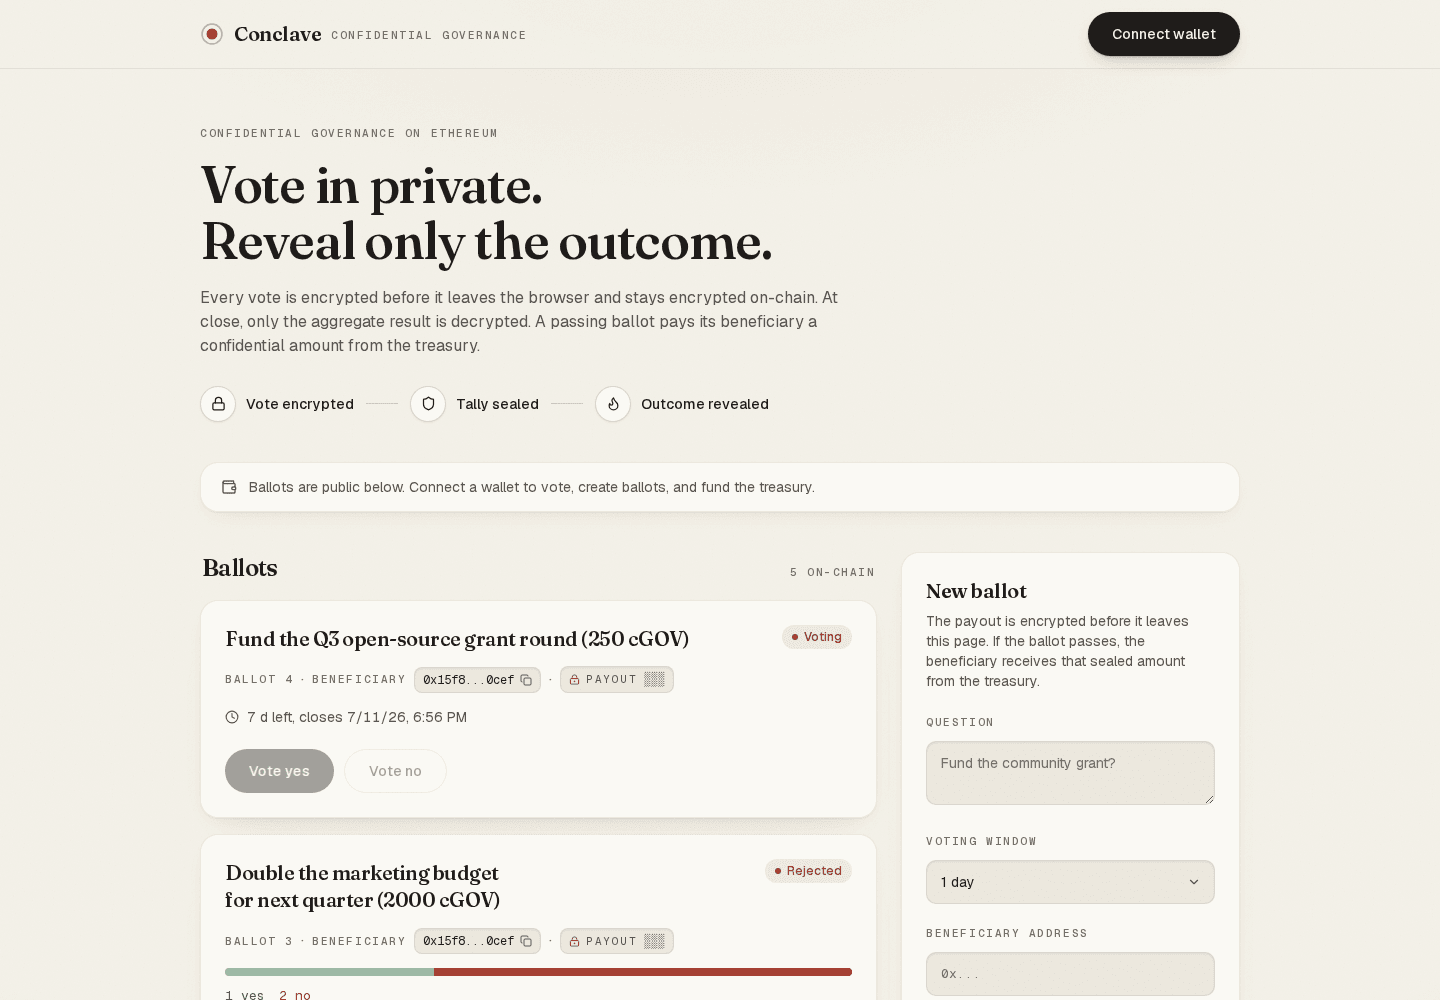
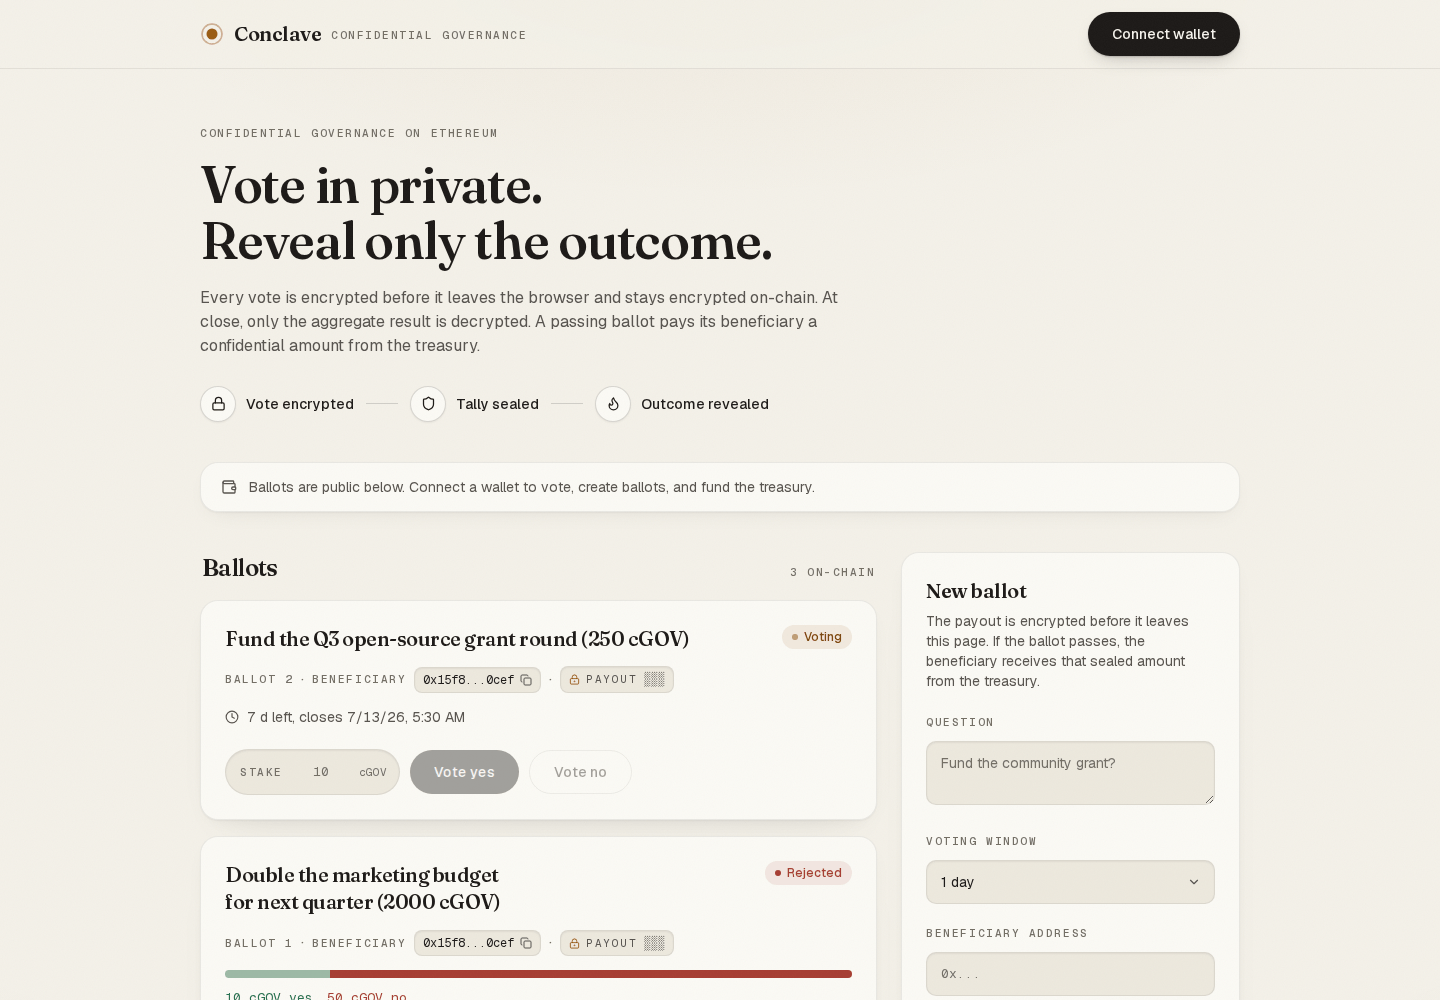
chore: harden staging and refresh README + screenshots for redeployed contracts

Changed region(s): [[0.1562, 0.868, 0.5938, 1.0], [0.1562, 0.713, 0.375, 0.806], [0.5312, 0.868, 0.5938, 0.899]]

diff --git a/contracts/scripts/stage-demo.ts b/contracts/scripts/stage-demo.ts
@@ -34,8 +34,9 @@ const BALLOT_STATE = { Active: 0n, Revealing: 1n, Resolved: 2n } as const;
 const FINISHED_BALLOT_DURATION_SECONDS = 420n;
 // 7 days keeps the live-demo ballot open through judging.
 const OPEN_BALLOT_DURATION_SECONDS = 7n * 24n * 3600n;
-// Gas money sent to voter accounts 1 and 2 (they only ever cast votes).
-const VOTER_TOP_UP_ETHER = "0.01";
+// Gas money the deployer sends to voter accounts 1 and 2. Each casts two
+// FHE-heavy votes on Sepolia, so 0.02 ETH leaves a margin over the ~0.01 pair.
+const VOTER_TOP_UP_ETHER = "0.02";
 // Operator authorization expiry, far in the future (a uint48 timestamp).
 const OPERATOR_UNTIL = 4102444800n; // 2100-01-01
 // Treasury funding per stage run, in whole cGOV (scaled by decimals below).
@@ -45,12 +46,34 @@ function logStep(message: string): void {
   console.log(`[stage-demo] ${message}`);
 }
 
+// Retries a relayer round-trip a few times on transient network failures. The
+// Zama testnet relayer occasionally closes the socket mid-request, which aborts
+// an otherwise valid input-proof or public-decrypt call. Backs off between tries.
+async function withRelayerRetry<T>(label: string, action: () => Promise<T>): Promise<T> {
+  const maxAttempts = 6;
+  let lastError: unknown;
+  for (let attempt = 1; attempt <= maxAttempts; attempt++) {
+    try {
+      return await action();
+    } catch (error) {
+      lastError = error;
+      if (attempt < maxAttempts) {
+        logStep(`${label}: relayer attempt ${attempt}/${maxAttempts} failed, retrying in ${attempt * 3}s`);
+        await new Promise((resolve) => setTimeout(resolve, attempt * 3000));
+      }
+    }
+  }
+  throw lastError;
+}
+
 async function encryptAmountForContract(
   contractAddress: string,
   sender: HardhatEthersSigner,
   amount: bigint,
 ): Promise<{ handle: Uint8Array; inputProof: Uint8Array }> {
-  const encrypted = await fhevm.createEncryptedInput(contractAddress, sender.address).add64(amount).encrypt();
+  const encrypted = await withRelayerRetry("encrypt amount", () =>
+    fhevm.createEncryptedInput(contractAddress, sender.address).add64(amount).encrypt(),
+  );
   return { handle: encrypted.handles[0], inputProof: encrypted.inputProof };
 }
 
@@ -86,11 +109,9 @@ async function castWeightedVote(
   support: boolean,
   weight: bigint,
 ): Promise<void> {
-  const encrypted = await fhevm
-    .createEncryptedInput(BALLOT_ADDRESS, voter.address)
-    .addBool(support)
-    .add64(weight)
-    .encrypt();
+  const encrypted = await withRelayerRetry(`encrypt vote on ballot ${ballotId}`, () =>
+    fhevm.createEncryptedInput(BALLOT_ADDRESS, voter.address).addBool(support).add64(weight).encrypt(),
+  );
   const tx = await ballot
     .connect(voter)
     .vote(ballotId, encrypted.handles[0], encrypted.handles[1], encrypted.inputProof);
@@ -141,7 +162,9 @@ async function sweepExpiredBallots(ballot: ConfidentialBallot, caller: HardhatEt
 
     if (state === BALLOT_STATE.Revealing) {
       const [encryptedYes, encryptedNo] = await ballot.getEncryptedTallies(ballotId);
-      const decrypted = await fhevm.publicDecrypt([encryptedYes, encryptedNo]);
+      const decrypted = await withRelayerRetry(`decrypt tallies of ballot ${ballotId}`, () =>
+        fhevm.publicDecrypt([encryptedYes, encryptedNo]),
+      );
       const resolveTx = await ballot
         .connect(caller)
         .resolve(ballotId, decrypted.abiEncodedClearValues, decrypted.decryptionProof);
@@ -210,24 +233,36 @@ async function runStagePhase(
     payoutAmount: inWhole(2000n),
   });
 
-  // 7. Stake-weighted votes in three parallel lanes (one per signer, so nonces
-  //    never collide): grants ends 50 yes / 10 no (passes), marketing ends
-  //    10 yes / 50 no (rejected). Weights are in whole cGOV.
+  // 7. Stake-weighted votes, cast one at a time so the relayer only ever handles
+  //    a single input-proof request at once (concurrent requests occasionally
+  //    get the socket closed mid-flight). Each signer still keeps its own nonce
+  //    lane. Grants ends 50 yes / 10 no (passes), marketing ends 10 yes / 50 no
+  //    (rejected). Weights are in whole cGOV.
   const voteLanes: {
     voter: HardhatEthersSigner;
     grants: { support: boolean; weight: bigint };
     marketing: { support: boolean; weight: bigint };
   }[] = [
-    { voter: deployer, grants: { support: true, weight: inWhole(30n) }, marketing: { support: false, weight: inWhole(30n) } },
-    { voter: voterOne, grants: { support: true, weight: inWhole(20n) }, marketing: { support: true, weight: inWhole(10n) } },
-    { voter: voterTwo, grants: { support: false, weight: inWhole(10n) }, marketing: { support: false, weight: inWhole(20n) } },
+    {
+      voter: deployer,
+      grants: { support: true, weight: inWhole(30n) },
+      marketing: { support: false, weight: inWhole(30n) },
+    },
+    {
+      voter: voterOne,
+      grants: { support: true, weight: inWhole(20n) },
+      marketing: { support: true, weight: inWhole(10n) },
+    },
+    {
+      voter: voterTwo,
+      grants: { support: false, weight: inWhole(10n) },
+      marketing: { support: false, weight: inWhole(20n) },
+    },
   ];
-  await Promise.all(
-    voteLanes.map(async (lane) => {
-      await castWeightedVote(ballot, lane.voter, grantsBallotId, lane.grants.support, lane.grants.weight);
-      await castWeightedVote(ballot, lane.voter, marketingBallotId, lane.marketing.support, lane.marketing.weight);
-    }),
-  );
+  for (const lane of voteLanes) {
+    await castWeightedVote(ballot, lane.voter, grantsBallotId, lane.grants.support, lane.grants.weight);
+    await castWeightedVote(ballot, lane.voter, marketingBallotId, lane.marketing.support, lane.marketing.weight);
+  }
 
   // 8. The ballot that stays open for the live demo (created last so it sits on
   //    top of the newest-first list in the app).

diff --git a/README.md b/README.md
@@ -20,7 +20,7 @@ its beneficiary an amount that stays encrypted from the vote to the balance.
   <img src="https://img.shields.io/badge/network-Ethereum%20Sepolia-57534e" alt="network: Ethereum Sepolia">
   <img src="https://img.shields.io/badge/contracts-verified-25704f" alt="contracts: verified on Etherscan">
   <img src="https://img.shields.io/badge/token-ERC--7984-7a470e" alt="token: ERC-7984">
-  <img src="https://img.shields.io/badge/tests-12%20passing-25704f" alt="tests: 12 passing">
+  <img src="https://img.shields.io/badge/tests-20%20passing-25704f" alt="tests: 20 passing">
   <img src="https://img.shields.io/badge/license-BSD--3--Clause--Clear-736e64" alt="license: BSD-3-Clause-Clear">
 </p>
 
@@ -57,9 +57,11 @@ contract adds them up without ever seeing them.
   tallies publicly decryptable. The app calls the relayer `publicDecrypt`, then
   `resolve` posts the KMS-signed cleartexts back and the contract re-checks them
   with `FHE.checkSignatures`. Individual votes never decrypt.
-- **Confidential treasury payout.** Each ballot carries a beneficiary and an
-  encrypted `euint64` payout. On a pass, `execute` moves it with ERC-7984
-  `confidentialTransfer`, so the amount stays encrypted from vote to payment.
+- **Confidential treasury payout, capped.** The treasury is funded separately
+  with `fundTreasury` and tracked apart from voter stakes. On a pass, `execute`
+  pays the beneficiary with ERC-7984 `confidentialTransfer`, but first caps the
+  amount at the treasury balance with `FHE.le` and `FHE.select`, so a ballot can
+  never spend the stakes voters locked. The payout stays encrypted end to end.
 - **Simulate-first actions.** Every write simulates before the wallet opens, so
   reverts such as `AlreadyVoted` or `VotingPeriodOver` arrive as readable
   messages instead of failed transactions.
@@ -69,14 +71,15 @@ contract adds them up without ever seeing them.
 ```mermaid
 flowchart TD
     subgraph browser["In the browser"]
-        voter["Voter"] -->|"encrypt choice + proof"| voteTx["vote(ballotId, ebool, proof)"]
+        voter["Voter"] -->|"encrypt choice + weight + proof"| voteTx["vote(id, ebool, euint64, proof)"]
         app["App"]
     end
     subgraph chain["Ethereum Sepolia"]
         voteTx --> ballot["ConfidentialBallot"]
-        ballot -->|"FHE.select + FHE.add"| tallies["two euint64 tallies (sealed)"]
+        ballot -->|"confidentialTransferFrom pulls the encrypted stake"| token["ConfidentialGovToken"]
+        ballot -->|"FHE.select + FHE.add the weight"| tallies["two euint64 tallies (sealed)"]
         resolve["resolve(cleartexts, proof)"] -->|"FHE.checkSignatures"| ballot
-        ballot -->|"on pass: confidentialTransfer"| token["ConfidentialGovToken"]
+        ballot -->|"on pass: execute, capped at the treasury"| token
         token --> beneficiary["Beneficiary balance (encrypted)"]
     end
     subgraph zama["Zama coprocessor and KMS"]
@@ -87,20 +90,23 @@ flowchart TD
 ```
 
 The diagram shows the happy path. The guards carry the rest. A vote outside the
-window reverts with `VotingPeriodOver`, a repeat vote with `AlreadyVoted`, and
-`closeBallot` only runs after `endTime`. `resolve` reverts unless the cleartexts
-carry the KMS signatures over exactly those two tally handles, so a tampered
-count cannot land. `execute` is gated by `passed` and by an `executed` flag, so
-a failed ballot pays nothing and a passing one pays once. If the treasury holds
-less than the payout, ERC-7984 transfers what is available rather than reverting.
+window reverts with `VotingPeriodOver`, a repeat vote with `AlreadyVoted`, and a
+voter who has not authorized the ballot as a token operator with
+`ERC7984UnauthorizedSpender`. `closeBallot` only runs after `endTime`. `resolve`
+reverts unless the cleartexts carry the KMS signatures over exactly those two
+tally handles, so a tampered count cannot land. `execute` is gated by `passed`
+and an `executed` flag, and caps the payout at the separately funded treasury
+with `FHE.le` and `FHE.select`, so a failed ballot pays nothing, a passing one
+pays once, and neither can ever spend the stakes voters locked. After a ballot
+resolves, each voter reclaims that stake with `withdraw`.
 
 ### Ballot lifecycle
 
 | State | Entered by | Public after this step | Stays encrypted |
 | --- | --- | --- | --- |
-| Active | `createBallot`, `vote` | description, beneficiary, window, that an address voted | the choice, both tallies, the payout amount |
+| Active | `createBallot`, `vote` | description, beneficiary, window, that an address voted | the choice, the stake weight, both tallies, the payout amount |
 | Revealing | `closeBallot` | tally handles marked publicly decryptable | every individual vote |
-| Resolved | `resolve` | yes and no counts, `passed` | the payout amount |
+| Resolved | `resolve` | yes and no weight totals, `passed` | the payout amount |
 | Paid | `execute` | that a payout happened (`PayoutExecuted`) | the payout amount and the beneficiary balance |
 
 Every state above, live on Sepolia with real encrypted votes (one ballot open,
@@ -111,13 +117,13 @@ one passed and paid, one rejected):
 ## 🔗 Live on Sepolia
 
 The app is hosted at [conclave-alpha.vercel.app](https://conclave-alpha.vercel.app).
-The contracts were deployed 2026-07-03 on Ethereum Sepolia and are verified on
+The contracts were deployed 2026-07-06 on Ethereum Sepolia and are verified on
 Etherscan, so the exact deployed Solidity is readable under each Contract tab.
 
 | Contract | Address | Link |
 | --- | --- | --- |
-| ConfidentialBallot | `0xb9e89A9819d740C723a448BF7D3513D13b7e4F53` | [verified code](https://sepolia.etherscan.io/address/0xb9e89A9819d740C723a448BF7D3513D13b7e4F53#code) |
-| ConfidentialGovToken (cGOV) | `0x62D93Eac4719F33DAab75f6B8E1aE4DDdd96223c` | [verified code](https://sepolia.etherscan.io/address/0x62D93Eac4719F33DAab75f6B8E1aE4DDdd96223c#code) |
+| ConfidentialBallot | `0x6a66FE78bc3fF6C08Ef977D16ec16aa8EfCA7e09` | [verified code](https://sepolia.etherscan.io/address/0x6a66FE78bc3fF6C08Ef977D16ec16aa8EfCA7e09#code) |
+| ConfidentialGovToken (cGOV) | `0xeb666d7F4c6Ca8AB8430A0CC63Cf6cad81b74DA1` | [verified code](https://sepolia.etherscan.io/address/0xeb666d7F4c6Ca8AB8430A0CC63Cf6cad81b74DA1#code) |
 
 **Try it in a minute.** Open the app and click Connect: a picker lists the
 injected wallets you have installed and moves the wallet to Sepolia. Then open
@@ -129,22 +135,25 @@ Evidence:
 
 - Both contracts are deployed and verified on Sepolia Etherscan (Solidity
   source under the Contract tab):
-  [ballot](https://sepolia.etherscan.io/address/0xb9e89A9819d740C723a448BF7D3513D13b7e4F53#code)
-  and [token](https://sepolia.etherscan.io/address/0x62D93Eac4719F33DAab75f6B8E1aE4DDdd96223c#code).
-- Ballot 4, "Fund the Q3 open-source grant round", is open for a week: connect
-  a Sepolia wallet and cast an encrypted vote yourself. Ballot 2 resolved 2 to 1
-  and its 750 cGOV payout was executed confidentially; ballot 3 resolved 1 to 2
-  and paid nothing. All staged by
+  [ballot](https://sepolia.etherscan.io/address/0x6a66FE78bc3fF6C08Ef977D16ec16aa8EfCA7e09#code)
+  and [token](https://sepolia.etherscan.io/address/0xeb666d7F4c6Ca8AB8430A0CC63Cf6cad81b74DA1#code).
+- Ballot 2, "Fund the Q3 open-source grant round", is open for a week: connect
+  a Sepolia wallet, claim cGOV, and cast a stake-weighted encrypted vote
+  yourself. Ballot 0, the grants committee, resolved 50 to 10 in staked weight
+  and paid its beneficiary 750 cGOV confidentially; ballot 1, the marketing
+  budget, resolved 10 to 50 and paid nothing. All staged by
   [contracts/scripts/stage-demo.ts](contracts/scripts/stage-demo.ts).
-- The full lifecycle is covered by 12 passing tests that run offline against the
-  FHEVM mock, including a vote of two yes and one no that reveals `passed` and
-  pays the beneficiary exactly 250 cGOV, decryptable only by that beneficiary:
+- The full lifecycle is covered by 20 passing tests that run offline against the
+  FHEVM mock, including one that tallies stake-weighted votes and reveals only
+  the aggregate weights, and one that keeps voter stakes safe even when a payout
+  would exceed the treasury:
   [contracts/test/ConfidentialBallot.ts](contracts/test/ConfidentialBallot.ts).
 - Negative proof: `resolve` calls `FHE.checkSignatures(handles, cleartexts,
-  decryptionProof)` before it trusts a count, so cleartexts that were not signed
-  by the KMS over those exact handles revert the transaction. Two tests also
-  prove `execute` refuses to pay a failed ballot and refuses to pay twice:
-  [contracts/contracts/ConfidentialBallot.sol](contracts/contracts/ConfidentialBallot.sol).
+  decryptionProof)` before it trusts a count, so cleartexts the KMS did not sign
+  over those exact handles revert. Tests also prove `execute` refuses to pay a
+  failed ballot and refuses to pay twice, `mint` is owner-only, and a vote
+  without operator authorization reverts:
+  [contracts/test/ConfidentialBallot.ts](contracts/test/ConfidentialBallot.ts).
 
 ## 🧪 Reproduce it
 
@@ -158,7 +167,7 @@ bun install
 bun run test
 ```
 
-Success is `12 passing`, run against the in-process FHEVM mock. The suite
+Success is `20 passing`, run against the in-process FHEVM mock. The suite
 deploys fresh contracts in memory on each run and touches no network and no
 deployed instance.
 
@@ -196,8 +205,9 @@ verify:sepolia` once `ETHERSCAN_API_KEY` is set.
   threshold operation run by Zama's coprocessor and key-management network. The
   contract verifies their signatures with `FHE.checkSignatures`; it does not
   replace them.
-- **Final tallies are public by design.** After `resolve`, the yes and no counts
-  are on-chain. Only the individual votes and the payout amount stay encrypted.
+- **Final tallies are public by design.** After `resolve`, the yes and no weight
+  totals are on-chain. Only the individual votes and the payout amount stay
+  encrypted.
 
 ## 🧩 Prior art
 